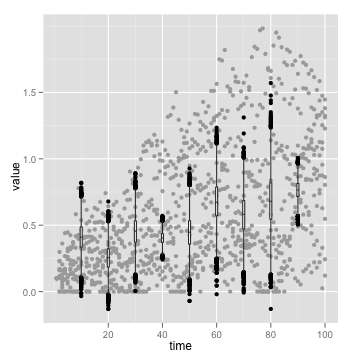
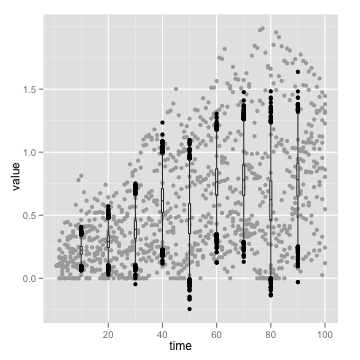
added lik/bayes naive sampling with bayes hopefully _actually_ properly implemented now

diff --git a/monitoring_knit_.md b/monitoring_knit_.md
@@ -167,9 +167,7 @@ Likelihood-based, treated like independent samples (no population model)
 **Bayes**
   
 <!--begin.rcode est-recov-bayes,echo=FALSE,cache=TRUE,warning=FALSE  
-r.m <- melt(r.d, id.vars=c('time'))
 g <- ggplot()+geom_point(aes(time, value), color='darkgrey', data=r.m)
-
 prior <- NULL
 for(time in 1:9*10){
   sub.d <- list(tot=t(sample(r.d[time,1:10], size=5)))
@@ -180,6 +178,7 @@ for(time in 1:9*10){
   }
   if(!is.null(prior)){
     post.t$mu <- sample(post.t$mu, replace=TRUE, prob=dnorm(post.t$mu, mean=prior[1], sd=prior[2]))
+    prior <- c(coef(ml.t)['mu'], coef(ml.t)['sigma'])
   }
   post.t$time = time
   g <- g + geom_boxplot(aes(time, mu), data=post.t)
